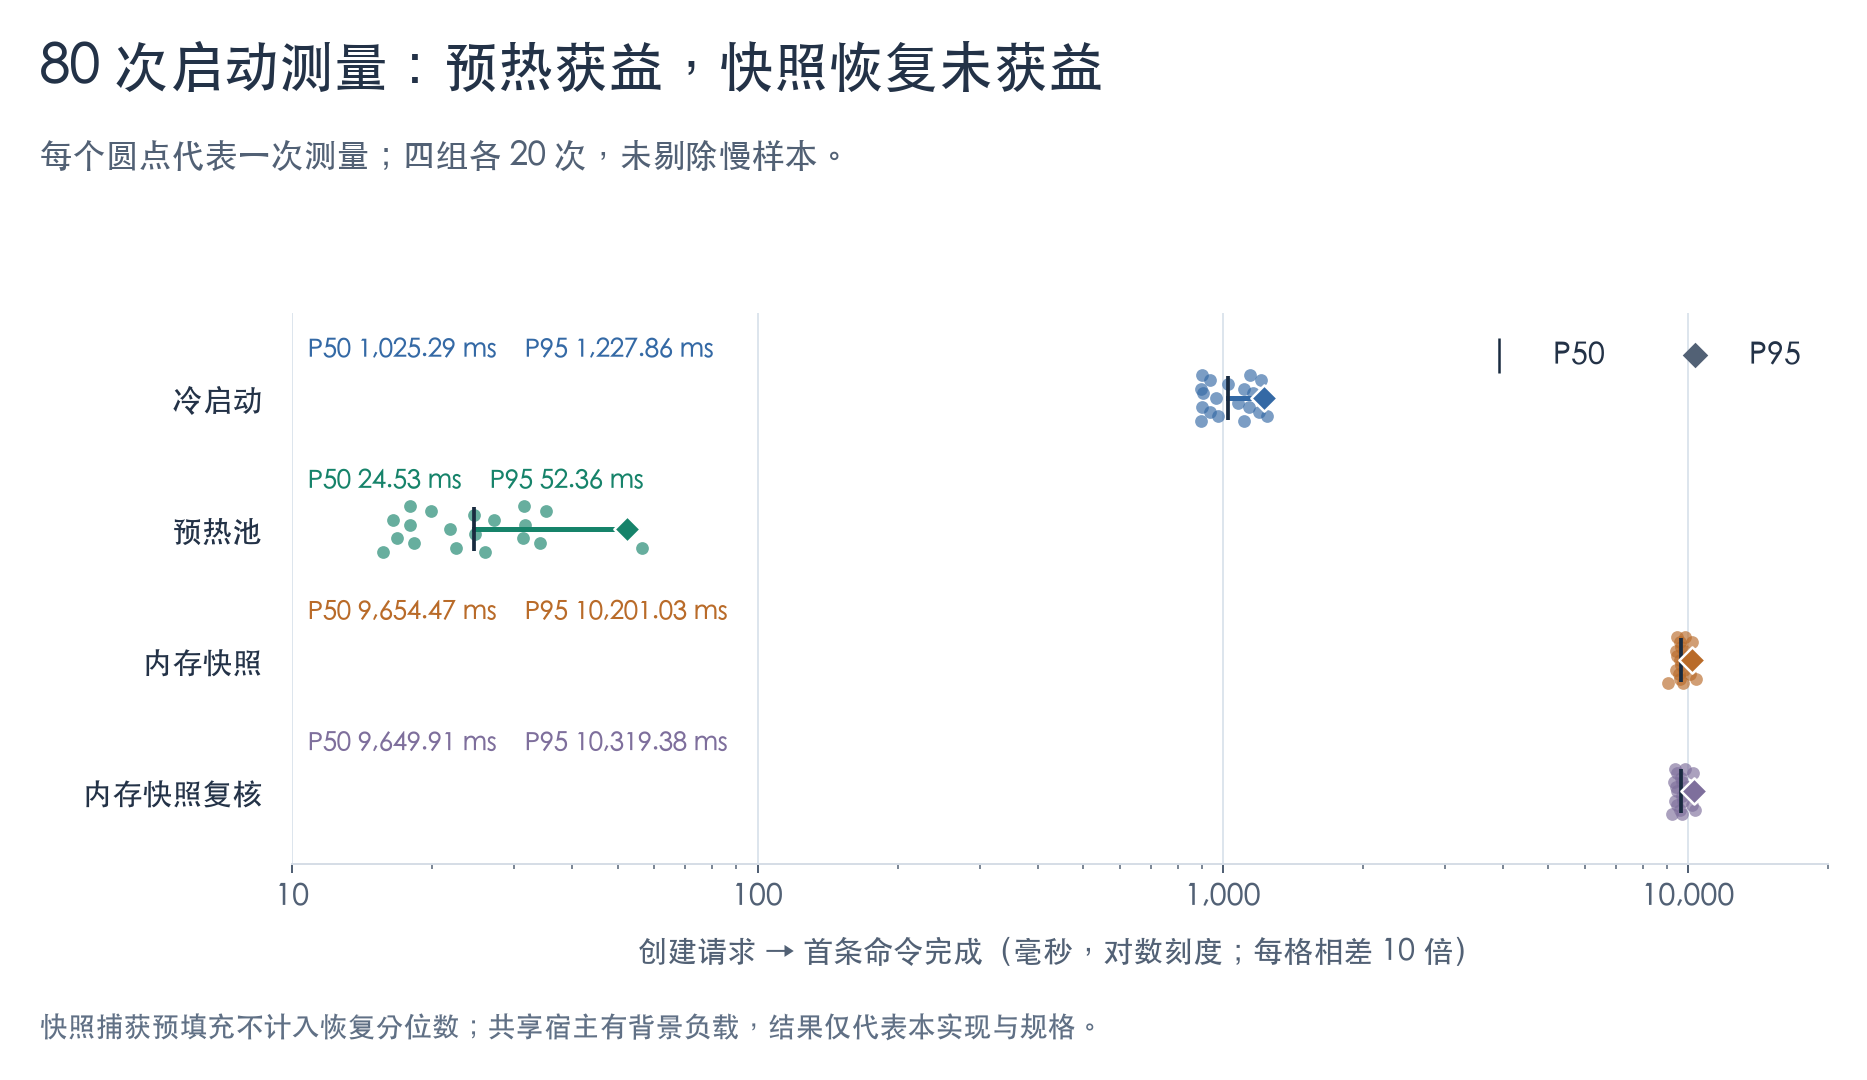
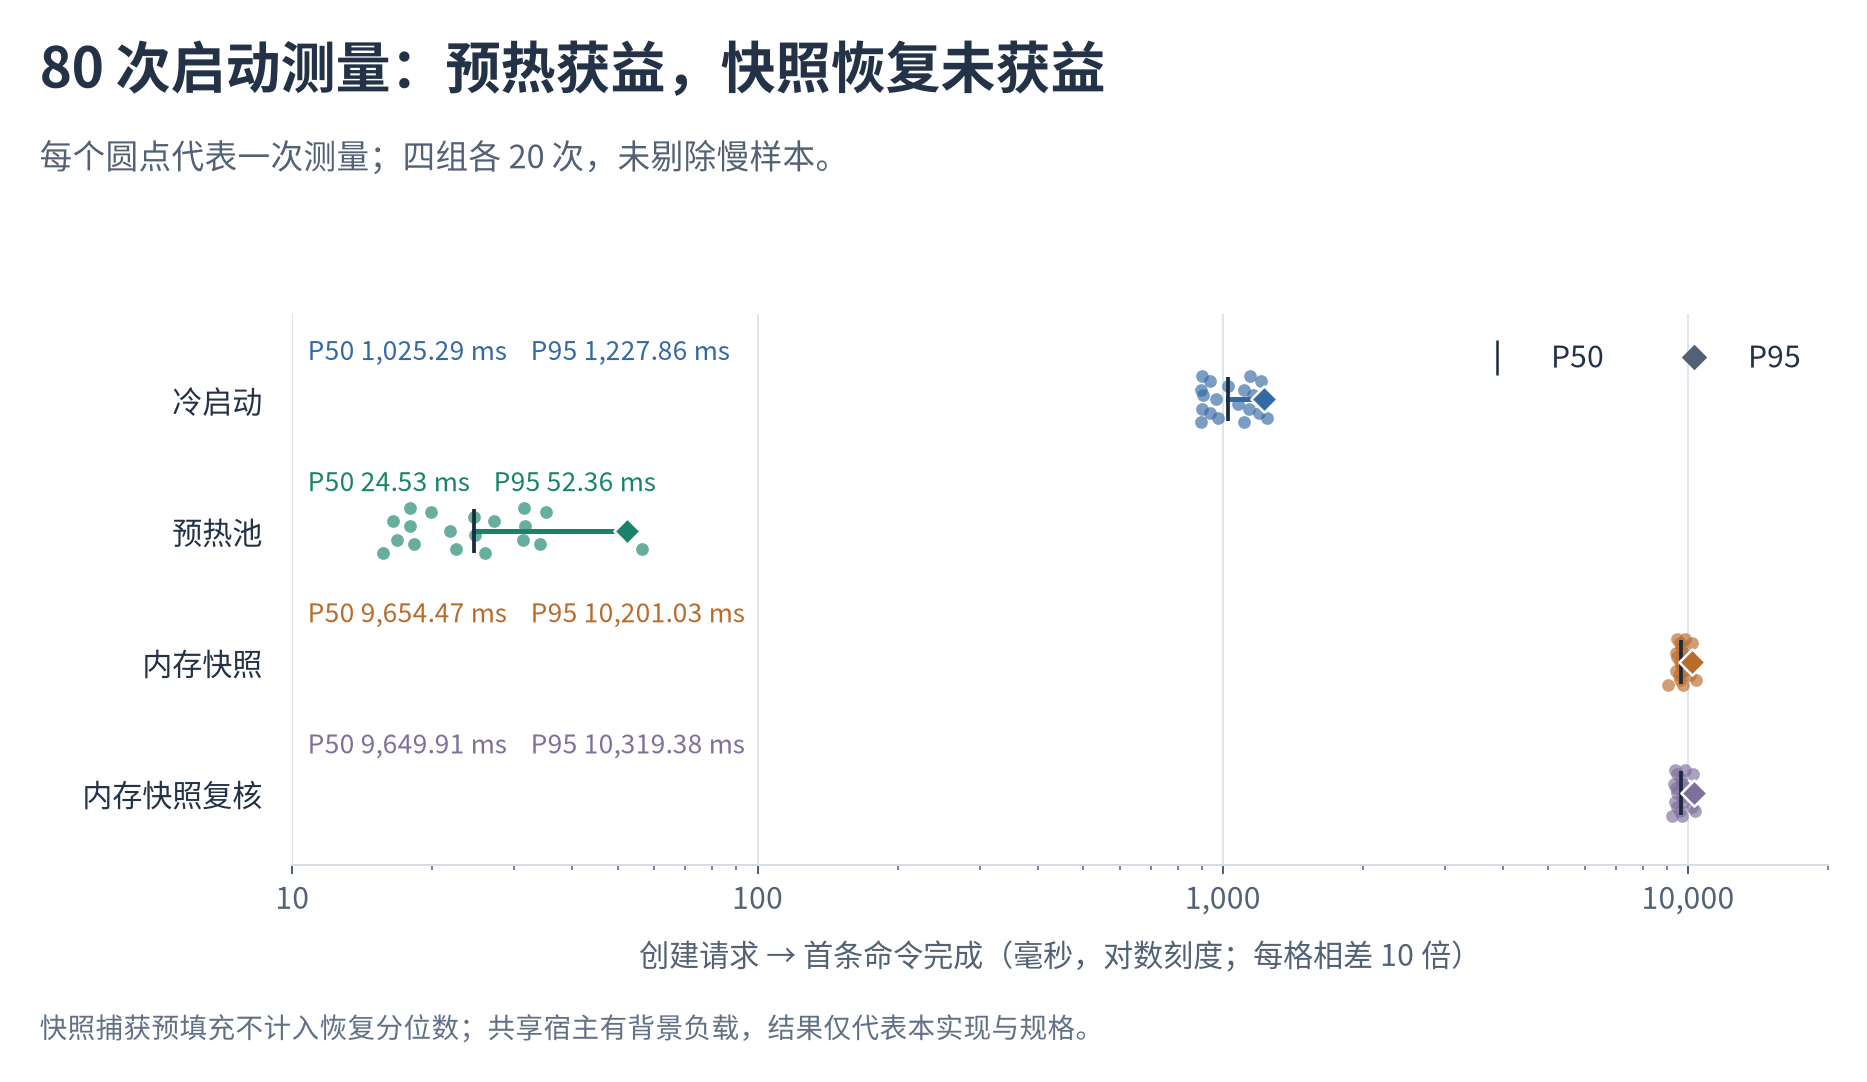
fix(docs): pin Simplified Chinese fonts in Firecracker charts

diff --git a/scripts/render_fc_startup_report.py b/scripts/render_fc_startup_report.py
@@ -2,7 +2,8 @@
 """Render the November 7 Firecracker report from immutable measurement evidence.
 
 uv run --no-project --with matplotlib python scripts/render_fc_startup_report.py
-Use --font /path/to/a/CJK-font.ttf when no supported Chinese font is installed.
+Use --font NotoSansCJKsc-Regular.otf --bold-font NotoSansCJKsc-Bold.otf
+to pin the Simplified Chinese glyphs and both font weights explicitly.
 """
 from __future__ import annotations
 
@@ -18,10 +19,14 @@ matplotlib.use("Agg")
 import matplotlib.pyplot as plt
 from matplotlib import font_manager, ticker
 from matplotlib.lines import Line2D
+from matplotlib.text import Text
 
 ROOT = Path(__file__).resolve().parents[1]
 EVIDENCE = ROOT / "docs/plan/evidence/fc-pin-20261107"
 OUTPUT = ROOT / "docs/plan/figures/fc-startup-20261107"
+SC_FAMILIES = ("Noto Sans CJK SC", "Noto Sans SC", "Source Han Sans SC", "Source Han Sans CN",
+               "PingFang SC", "Heiti SC", "Microsoft YaHei", "WenQuanYi Zen Hei")
+RENDER_FONTS: dict[str, str] = {}
 GROUPS = [
     ("cold", "first/cold", "冷启动", "#3469A5"),
     ("warm", "first/warm", "预热池", "#16836A"),
@@ -49,21 +54,39 @@ def measurements():
     return result
 
 
-def configure(font):
+def configure(font, bold_font=None):
     if font:
         font_manager.fontManager.addfont(str(font))
         family = font_manager.FontProperties(fname=str(font)).get_name()
+        if family not in SC_FAMILIES:
+            raise SystemExit(f"Font resolves to {family!r}, not a supported Simplified Chinese face. "
+                             "Use a standalone NotoSansCJKsc-Regular.otf, not a TC/JP font or ambiguous collection.")
+        regular_path = str(font.resolve())
     else:
         family = None
-        for candidate in ("PingFang SC", "Heiti SC", "Noto Sans CJK SC", "Microsoft YaHei", "WenQuanYi Zen Hei"):
+        for candidate in SC_FAMILIES:
             try:
-                font_manager.findfont(candidate, fallback_to_default=False)
+                path = font_manager.findfont(candidate, fallback_to_default=False)
+                # A collection may match an SC family but open a different first face.
+                if font_manager.FontProperties(fname=path).get_name() != candidate:
+                    continue
                 family = candidate
+                regular_path = path
                 break
             except ValueError:
                 pass
         if not family:
-            raise SystemExit("No Chinese font found; supply --font.")
+            raise SystemExit("No unambiguous Simplified Chinese font found; supply --font.")
+    if bold_font:
+        font_manager.fontManager.addfont(str(bold_font))
+        if font_manager.FontProperties(fname=str(bold_font)).get_name() != family:
+            raise SystemExit("--bold-font must belong to the same Simplified Chinese family as --font.")
+        bold_path = str(bold_font.resolve())
+    else:
+        bold_path = font_manager.findfont(font_manager.FontProperties(family=family, weight="bold"), fallback_to_default=False)
+        if font_manager.FontProperties(fname=bold_path).get_name() != family:
+            raise SystemExit("Bold font resolves to another regional face; supply --bold-font.")
+    RENDER_FONTS.update(regular=regular_path, bold=bold_path)
     plt.rcParams.update({"font.family": family, "font.size": 12, "axes.unicode_minus": False,
                          "text.color": "#233247", "axes.labelcolor": "#526175",
                          "xtick.color": "#526175", "ytick.color": "#233247",
@@ -74,6 +97,13 @@ def configure(font):
 
 def finish(fig, name):
     OUTPUT.mkdir(parents=True, exist_ok=True)
+    fig.canvas.draw()  # Materialize tick labels before pinning every text artist.
+    for text in fig.findobj(match=Text):
+        properties = text.get_fontproperties().copy()
+        weight = properties.get_weight()
+        numeric_weight = weight if isinstance(weight, (int, float)) else font_manager.weight_dict.get(weight, 400)
+        properties.set_file(RENDER_FONTS["bold" if numeric_weight >= 600 else "regular"])
+        text.set_fontproperties(properties)
     fig.savefig(OUTPUT / name, dpi=180, bbox_inches="tight", pad_inches=.22)
     plt.close(fig)
 
@@ -136,12 +166,14 @@ def distributions(rows):
 def main():
     parser = argparse.ArgumentParser(description=__doc__)
     parser.add_argument("--font", type=Path)
+    parser.add_argument("--bold-font", type=Path)
     args = parser.parse_args()
-    configure(args.font)
+    configure(args.font, args.bold_font)
     rows = measurements()
     warm_comparison(rows)
     distributions(rows)
-    print(json.dumps({"output": str(OUTPUT), "groups": [{k: r[k] for k in ("key", "p50", "p95")} for r in rows]}, ensure_ascii=False))
+    print(json.dumps({"output": str(OUTPUT), "fonts": RENDER_FONTS,
+                      "groups": [{k: r[k] for k in ("key", "p50", "p95")} for r in rows]}, ensure_ascii=False))
 
 
 if __name__ == "__main__":

diff --git a/docs/plan/d26-pinned-generation-2026-11-07.md b/docs/plan/d26-pinned-generation-2026-11-07.md
@@ -95,5 +95,8 @@
 
 ```bash
 uv run --no-project --with matplotlib python scripts/render_fc_startup_report.py
-# 缺少中文字体时，追加：--font /path/to/CJK-font.ttf
+# 显式指定简体中文字体及粗体，避免地区字形或字体集合首字面选错：
+# --font /path/to/NotoSansCJKsc-Regular.otf --bold-font /path/to/NotoSansCJKsc-Bold.otf
 ```
+
+图表使用 **Noto Sans CJK SC（简体中文）**的常规与粗体字面；字体来自 [Noto CJK 的 SimplifiedChinese 目录](https://github.com/notofonts/noto-cjk/tree/f8d157532fbfaeda587e826d4cd5b21a49186f7c/Sans/OTF/SimplifiedChinese)。脚本按字体文件固定每个文字对象，不使用 TC／JP 地区字形替代。
